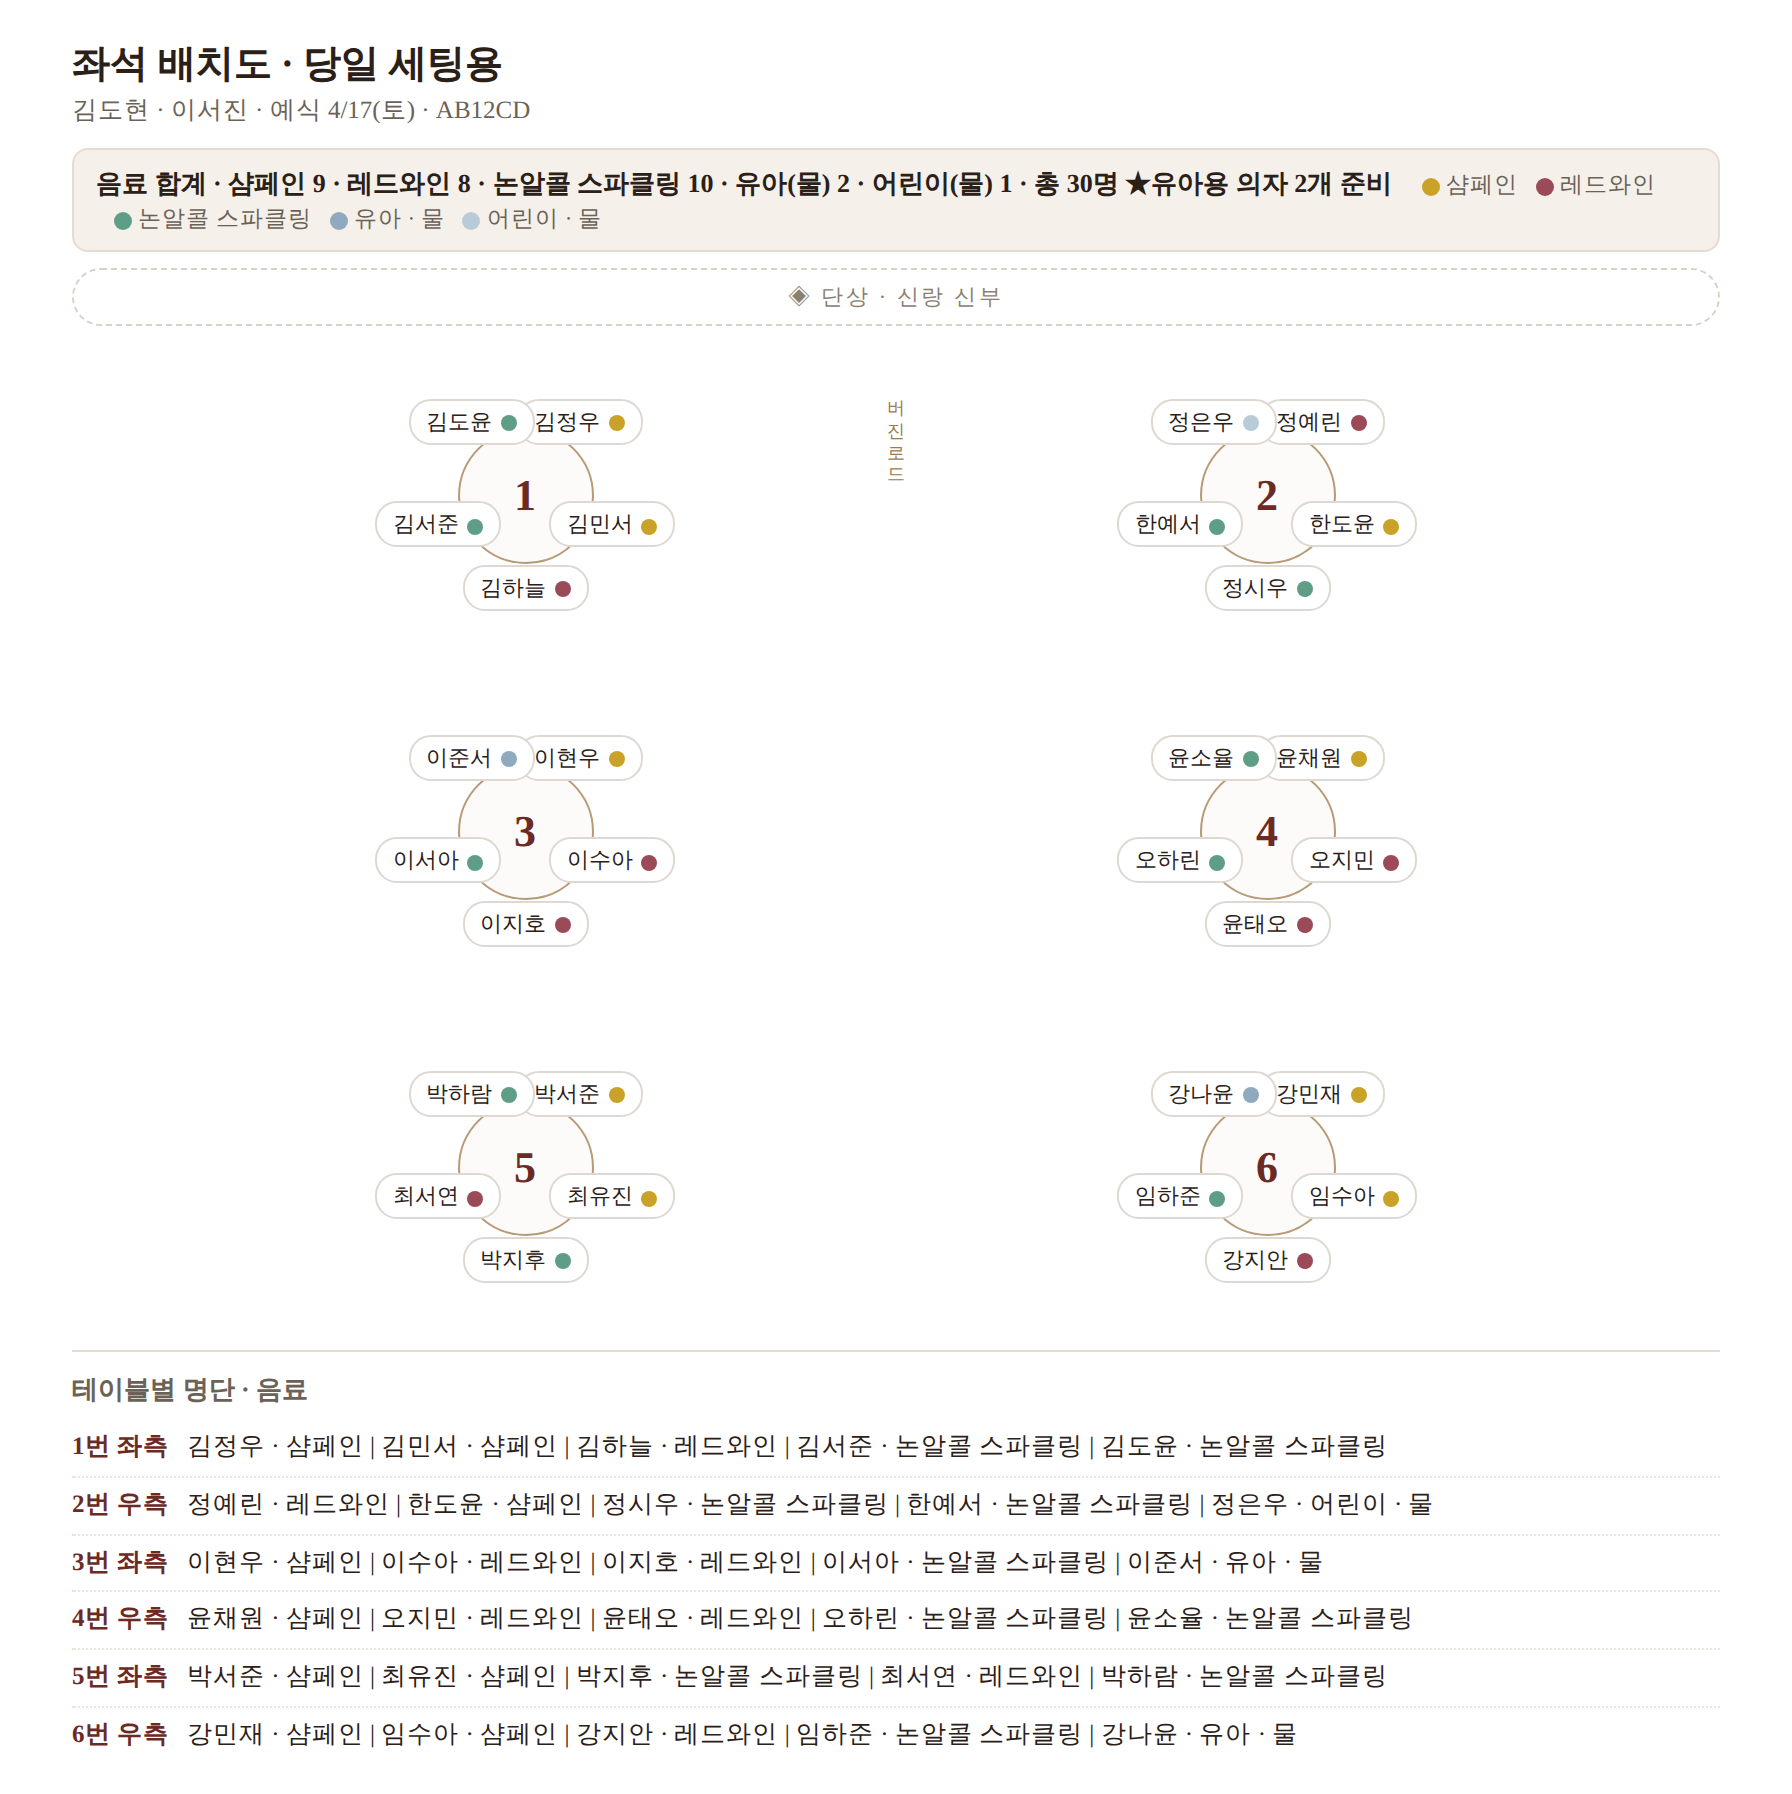
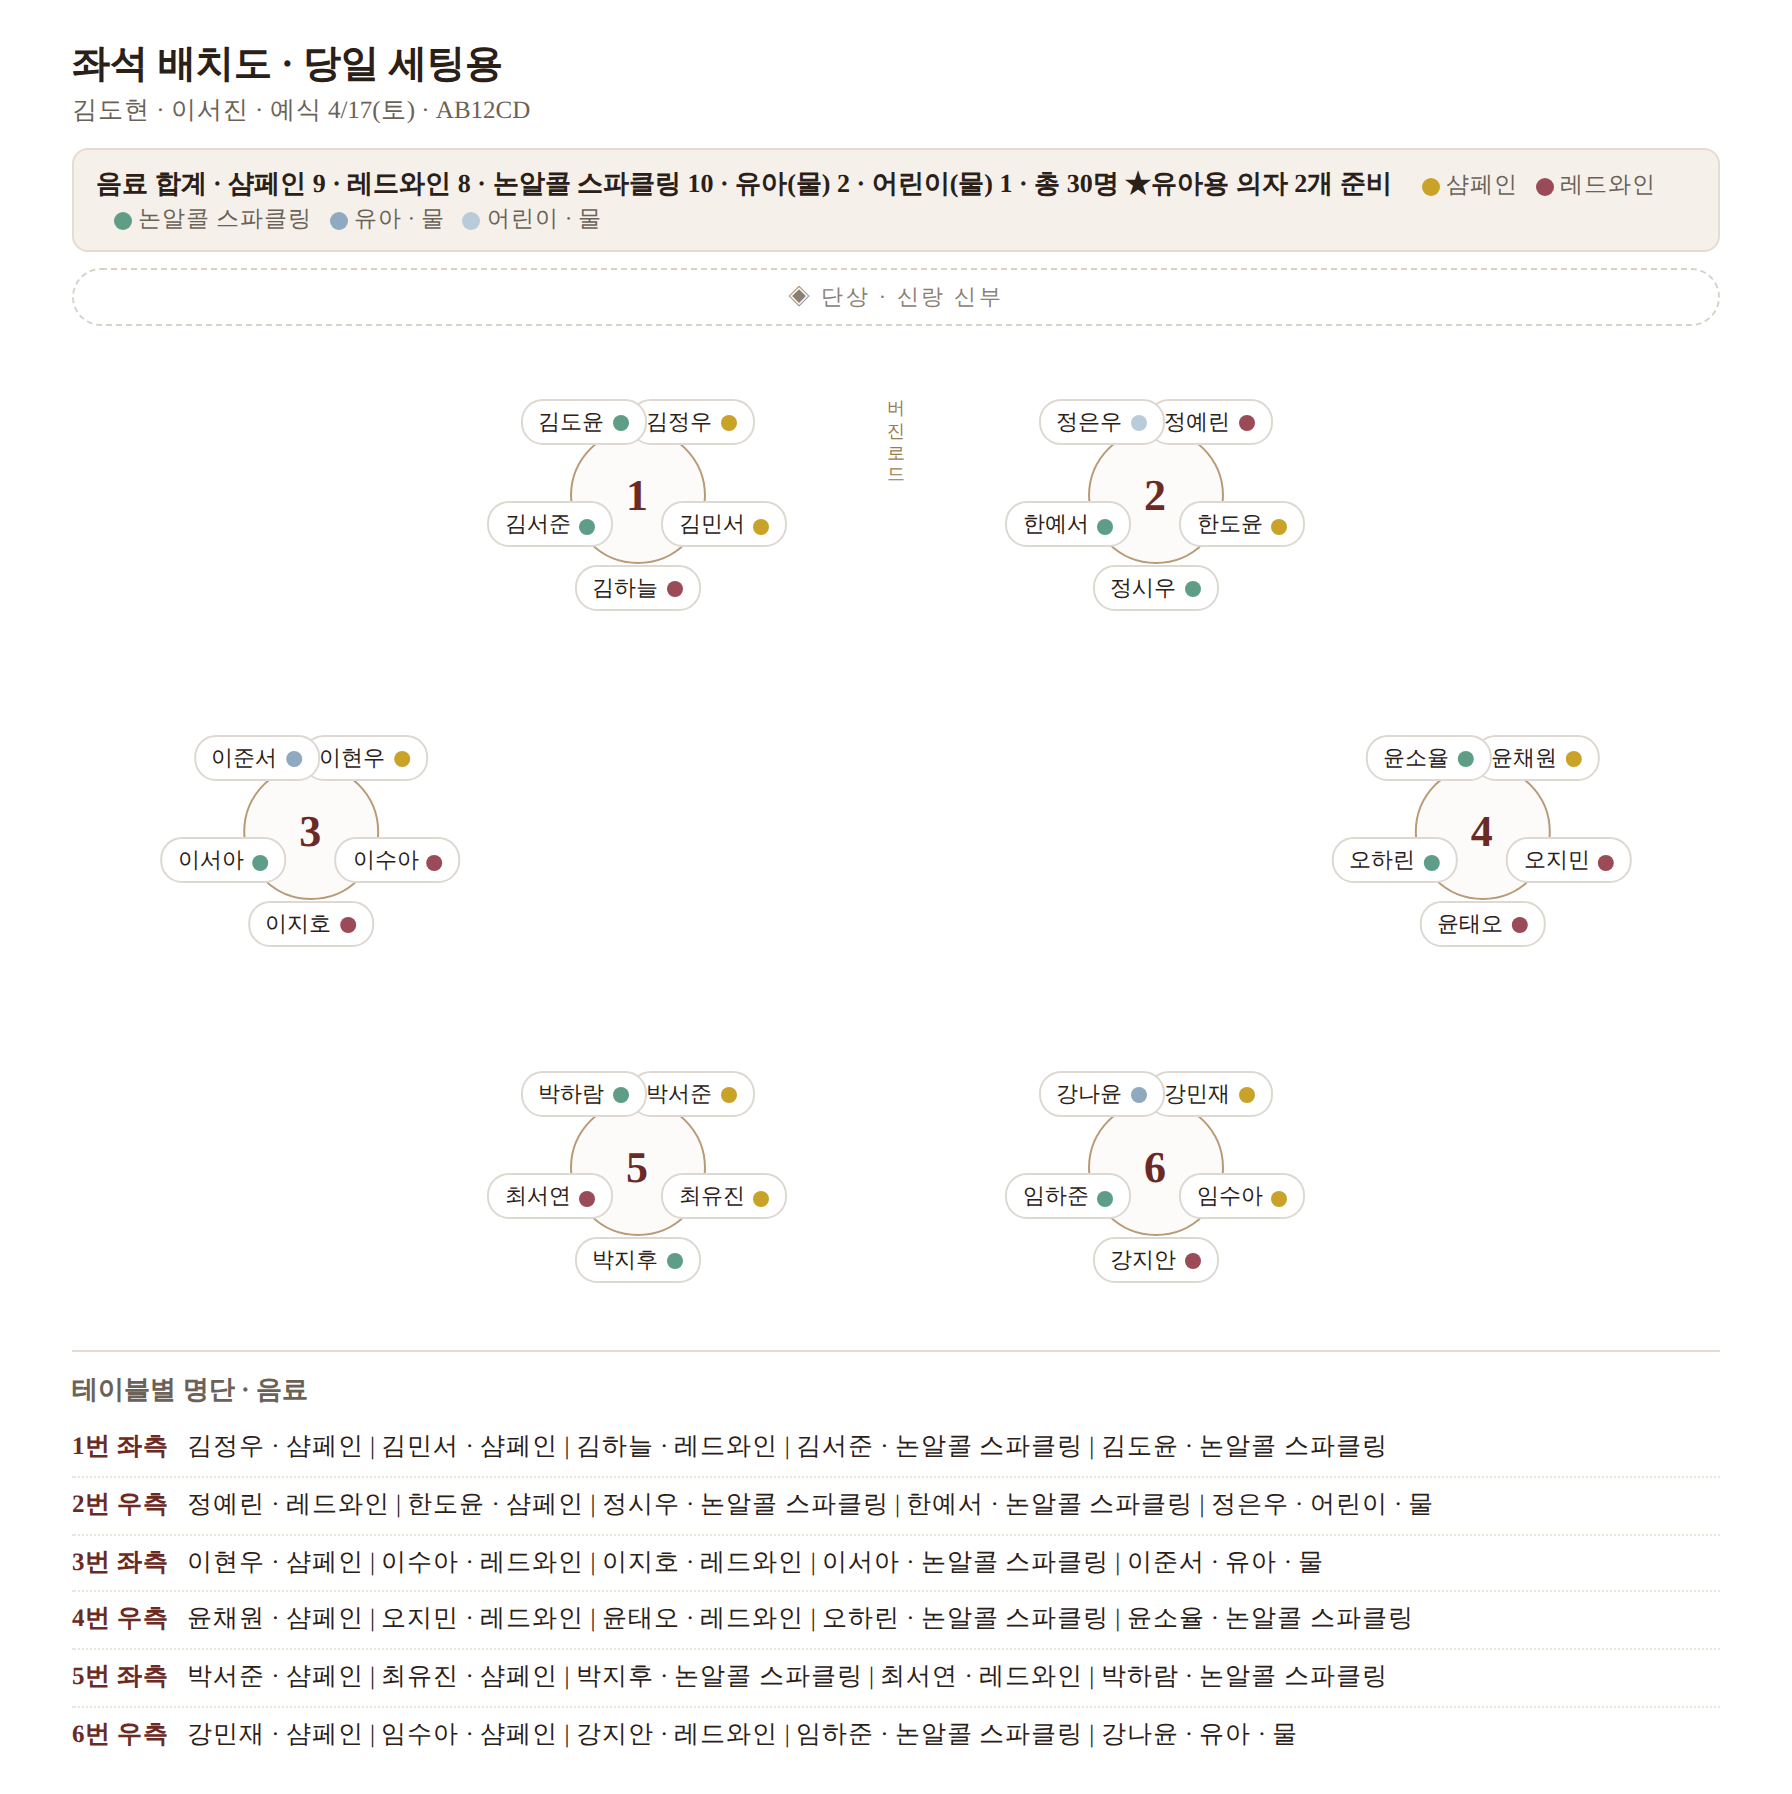
좌석 배치를 «지금 세팅된 것»에 맞춘다 — 인쇄물만 격자였다
대표 지적: 「좌석이 좀 다른데 지그재그도 아니고 이것만 수정해봐」
        「지금 셋팅되어 있는 걸 참고해봐」

배치 후보 넷을 그려 대표가 B 지그재그를 고르셨고, 테이블당 5명을
확인해 주셨다.

★그런데 답은 이미 저장소 안에 있었다 [NOT_THE_SOURCE]
- mypage.html:7430 _seatZig — 가로 지그재그(짝수행 통로쪽 1배,
  홀수행 바깥 1.15배, 우측 열은 부호 반전으로 미러)
- guide.html:748 zigX — 같은 규칙(±22px)
- admin.html _seatChartDoc — ★셋 중 여기만 격자였다

그래서 대표가 「좌석이 좀 다른데」라고 하셨다. 화면과 인쇄물이 달랐다.
밖에서 만들기 전에 안을 먼저 봤어야 했다. 나는 처음에 「세로로 반 칸
내림」으로 해석해 한 번 더 틀렸고, 대표의 「지금 셋팅되어 있는 걸
참고해봐」로 바로잡았다.

고친 것
- admin.html _seatChartDoc — 편집기와 같은 가로 지그재그. 폭도 편집기
  실측값(--zig = min(80px, calc(min(92vw,880px)/7.6 - 40px)) = 75.8px)을
  그대로 가져왔다. .ptbl 150px 가 편집기 .rt 150px 와 같아 비율이 맞는다.
  .pcol max-width 340 → 380 (이동 폭이 커져 좌석 알약이 잘리지 않게)
- mypage.html autoSeatTables — 테이블당 4석 → 5석. 6x5=30명이라 30명
  예식에서 부부가 자리를 여섯 번 더 누르지 않아도 된다
- 사진 ④ 좌석 세팅표 재생성 (1,792×1,794)

★셋이 한 벌이라는 것을 다시 확인했다 — 편집기·하객 화면·인쇄물이
이제 같은 모양이다. 체크리스트의 좌석 항목 셋을 닫았다(테이블 «개수»는
임대차 계약 뒤 실측 때 다시 본다).

검증: 편집기와 인쇄물을 같은 데이터로 나란히 렌더해 눈으로 대조
      390/1280 실렌더 JS 오류 0 · 가로 넘침 0px · 빈 그림 0장
게이트: merge-guard 초록 · 대표결정 145건 · 미처리 0건 · --submit 통과

Claude-Session: https://claude.ai/code/session_01UqoLyXAe3HVJ3BV5nbgbHH

diff --git a/admin.html b/admin.html
@@ -688,7 +688,18 @@ function _seatChartDoc(d){
   tables.forEach(function(t){ ((t&&t.seats)||[]).forEach(function(v,i){ if(!String(v||'').trim())return; cT++; var dv=((t.drinks||[])[i])||''; if(dv==='C')cC++; else if(dv==='R')cR++; else if(dv==='N')cN++; else if(dv==='K')cK++; else if(dv==='Y')cY++; else cU++; }); });
   function tbl(t,no){ var seats=(t&&t.seats)||[]; var n=seats.length,inner=''; for(var i=0;i<n;i++){ var nm=String(seats[i]||'').trim(); var dk=nm?(((t.drinks||[])[i])||''):''; var u=_seatChartPos(n,i,46); var dot=DL[dk]?'<i class="pd pd-'+dk+'"></i>':''; inner+='<span class="pseat'+(nm?'':' e')+'" style="left:calc(50% + '+u.x.toFixed(1)+'px);top:calc(50% + '+u.y.toFixed(1)+'px)">'+(nm?esc(nm):'·')+dot+'</span>'; } return '<div class="ptbl"><span class="ptno">'+no+'</span>'+inner+'</div>'; }   // 색점은 이름 있는 자리만(고아 음료가 빈자리에 찍혀 합계와 어긋나는 것 방지)
   var L='',R='';
-  tables.forEach(function(t,i){ var no=num[i]||(i+1); if(String((t&&t.side)||'L')==='R') R+=tbl(t,no); else L+=tbl(t,no); });
+  /* [SEAT_ZIGZAG] 편집기(mypage _seatZig)와 같은 값 — 짝수행 통로쪽 1배 · 홀수행 바깥 1.15배 · 우측은 미러 */
+  /* ★폭은 편집기 실측값을 쓴다 — mypage .seat-room 의 --zig 는 PC 에서
+       min(80px, calc(min(92vw,880px)/7.6 - 40px)) = 75.8px 였다(실측 2026-09-14).
+       테이블 상자(.ptbl 150px)도 편집기(.rt 150px)와 같아 그대로 옮겨도 비율이 맞는다. */
+  function zigX(row, side){ var even=(row%2===0); var base=(even?1:-1)*(even?1:1.15); return (side==='R'? -base : base)*76; }
+  var li=0, ri=0;
+  tables.forEach(function(t,i){
+    var no=num[i]||(i+1), isR=(String((t&&t.side)||'L')==='R');
+    var dx=zigX(isR?ri++:li++, isR?'R':'L');
+    var cell='<div style="transform:translateX('+dx.toFixed(1)+'px)">'+tbl(t,no)+'</div>';
+    if(isR) R+=cell; else L+=cell;
+  });
   var roster=''; var ordered=[]; tables.forEach(function(t,i){ ordered.push({t:t,no:num[i]||(i+1)}); }); ordered.sort(function(a,b){ return a.no-b.no; });
   ordered.forEach(function(o){ var parts=[]; ((o.t&&o.t.seats)||[]).forEach(function(nm,i){ nm=String(nm||'').trim(); if(!nm)return; var dk=((o.t.drinks||[])[i])||''; parts.push(esc(nm)+' · '+esc(DL[dk]||'미정')); }); var _cn=String((o.t&&o.t.name)||'').trim(); var _cnl=(_cn && !/^테이블\s*\d+$/.test(_cn))?(' · '+esc(_cn)):'';   // 자리마다 음료 명시(자리별 선택 · 미정 표기) · 커스텀 테이블명도 표기
     if(parts.length) roster+='<div class="pr"><b>'+o.no+'번 '+(String(o.t.side||'L')==='R'?'우측':'좌측')+_cnl+'</b> '+parts.join(' |  ')+'</div>'; });
@@ -699,8 +710,15 @@ function _seatChartDoc(d){
     +'.ptot{font-size:13px;font-weight:600;background:#f5f1ea;border:1px solid #e3dccf;border-radius:8px;padding:8px 11px;margin-bottom:6px}'
     +'.plg{font-weight:400;font-size:11.5px;color:#6b6257;margin-left:6px}.plg i{display:inline-block;width:9px;height:9px;border-radius:50%;vertical-align:middle;margin:0 3px 0 9px}'
     +'.pstage{text-align:center;font-size:11px;letter-spacing:.12em;color:#8a8072;border:1px dashed #d8d1c4;border-radius:16px;padding:6px;margin:8px 0 10px}'
-    +'.proom{display:flex;gap:6px;align-items:flex-start;justify-content:center}.pcol{flex:1;max-width:340px;display:flex;flex-direction:column;gap:18px;align-items:center}'
+    +'.proom{display:flex;gap:6px;align-items:flex-start;justify-content:center}.pcol{flex:1;max-width:380px;display:flex;flex-direction:column;gap:18px;align-items:center;overflow:visible}'
     +'.paisle{writing-mode:vertical-rl;font-size:9px;letter-spacing:.3em;color:#9a7b4f;padding:20px 3px 0}'
+    /* ★[SEAT_ZIGZAG 2026-09-14 대표 결정 「B 지그재그」] 좌우가 나란히 마주보지 않는다.
+       ★해석을 한 번 더 틀렸다 — 처음엔 «세로로 반 칸 내림»으로 만들었는데, 실제 배치는
+         이미 «마이페이지 편집기»(mypage.html:7430 _seatZig)와 «하객 안내»(guide.html:748 zigX)에
+         들어 있었다. **가로**로 행마다 통로쪽↔바깥쪽을 번갈아 놓고 우측 열은 부호를 뒤집어 미러한다.
+       ★셋 중 이 인쇄물만 격자였다. 그래서 대표가 「좌석이 좀 다른데」라고 하셨다.
+         [NOT_THE_SOURCE] 밖에서 만들기 전에 안을 먼저 봤어야 했다. */
+    +'.ptbl{transition:none}'
     +'.ptbl{position:relative;width:150px;height:150px}'
     +'.ptbl::before{content:"";position:absolute;left:50%;top:50%;width:66px;height:66px;transform:translate(-50%,-50%);border-radius:50%;background:#fcfbf9;border:1.5px solid #b89a75}'
     +'.ptno{position:absolute;left:50%;top:50%;transform:translate(-50%,-50%);font-size:22px;font-weight:600;color:#6B2A24}'

diff --git a/mypage.html b/mypage.html
@@ -5968,9 +5968,11 @@ function renderQRInto(qid, svid, url, fname){
 // ── 좌석 배치도 (최종 확정 완료 후) — 탭으로 이름 채우기 + 좌우 배치 미리보기. 완료 시 공개 링크·QR 발급 → 하객 전달 ──
 var SEATFLOW = { active:false, tables:[], token:'' };
 function seatUrl(token){ var o=''; try{ o=window.location.origin; }catch(e){} return (o||'https://momentedit.kr')+'/seat.html?t='+encodeURIComponent(token); }
-// 초기 테이블 자동 배치 — 기본 6개 테이블(좌3·우3) · 한 테이블 4명(초기 셋팅). 필요하면 자리 추가로 테이블당 최대 5명까지.
+// 초기 테이블 자동 배치 — 기본 6개 테이블(좌3·우3) · 한 테이블 5명. 테이블당 최대 5명.
+// ★[SEAT_PER5 2026-09-14 대표 확인 「5명이 맞다」] 종전 기본값은 4명이었다. 6×4=24명이라
+//   30명 예식은 부부가 자리를 여섯 번 더 눌러야 채워졌다. 실제 세팅이 5명이니 처음부터 5명으로 둔다.
 function autoSeatTables(headcount){
-  var cnt=6, per=4, lc=Math.floor(cnt/2);   // 6테이블 · 4석 기본 · 좌측 3
+  var cnt=6, per=5, lc=Math.floor(cnt/2);   // [SEAT_PER5] 6테이블 · 5석 기본 · 좌측 3 = 30명
   var out=[]; for(var i=0;i<cnt;i++){ var seats=[],drinks=[]; for(var k=0;k<per;k++){ seats.push(''); drinks.push(''); } out.push({ name:'테이블 '+(i+1), side:(i<lc)?'L':'R', seats:seats, drinks:drinks }); }
   return out;
 }
